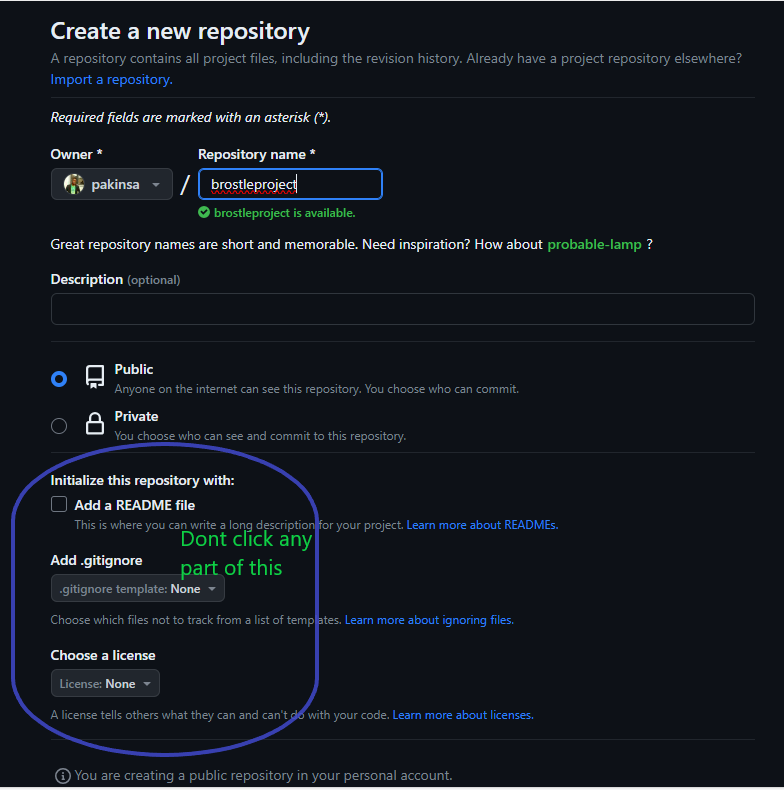
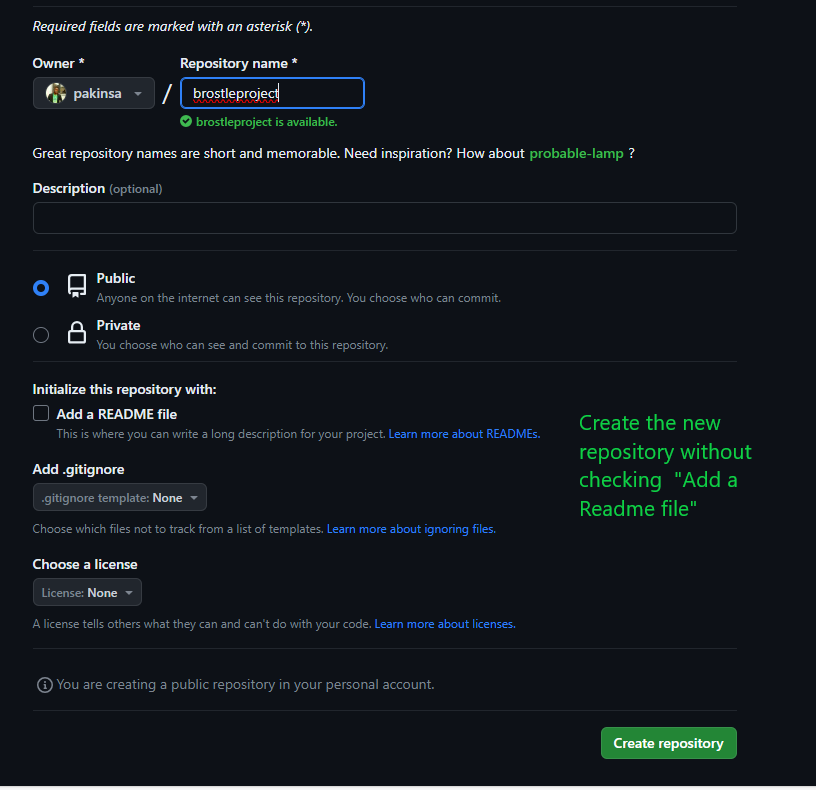
major updates 2

diff --git a/02.Git Project/Readme.md b/02.Git Project/Readme.md
@@ -1,9 +1,8 @@
 # My DevOps_Project 
 ## Project 2: GIT Pratice Project
 ### Darey.io DevOps Bootcamp
+![alt text](img/01.git.png)
 
-
-![alt text](img/01.git.png "Git")
 
 Git Commands helps to collaborate on projects amongst technical teams 
 
@@ -47,6 +46,12 @@ Required Steps:
 
       ![alt text](img/11.git_diff.png)
 
+
+      `git ls-files`  : displays all files in your repository
+
+      ![alt text](img/11a.git_ls.png)
+
+
 * 9. `git branch branch_name`  : create a new branch
      `git branch`              : confirm branches available in your repository
      `git switch branch_name`  : switch to a specified branch_name  
@@ -84,19 +89,45 @@ to main branch with -m flag and tag with comment in quotation marks. Conflict re
 
 
 
-* 19. Create a github account at [Git](https://github.com/) 
+* 16. Create a github account at [Git](https://github.com/) 
       ![alt text](img/19.github.png "Github")
 
-      Create the repository on Github without adding a readme file and gitignore file. 
+* 17. Create the repository on Github without adding a readme file and gitignore file. 
       This allows seamless git remote repo addition without errors of "remote repository has an existing file"
       ![alt text](img/20.remoterepo.png)  
 
 
-      Copy the https of your remote repo
+* 18. Copy the https of your remote repo
 
       `git remote add origin https://github.com/pakinsa/Brostleprojects.git`  // attempts to add your github repo to your local repo.
       `git branch -m main`          //takes the Head, i.e the main branch of your github repo
       `git push -u origin main`     // connects it to the main branch of your local repo with -u flag for upstream
 
       ![alt text](img/21.git_remote.png)  
+
+* 19. git push --all  // push all branches to remotely
+      ![alt text](img/22.pushbranchremote.png)  
+      ![alt text](img/23.remote_branches.png)
+
+
+
+* 20. You can contribute to a project on GitHub by identifying and opening issues
+      ![alt text](img/24.issues.png)  
+
+
+* 21. You can solve issues in a project with pull request seeking a reviewer to merge into main if successful.
+      ![alt text](img/25.pullrequest.png)  
+
+
+* 22. Once pull request is approved, a merging take place by the assigned reviewer.
+      ![alt text](img/26.mergeremotepullrequest.png)  
+
+
+* 23. Take a look at number of issues, pull requests, commits made in a repository at insights
+      ![alt text](img/27.insights.png)  
+
+
+* 24. Finally sync your local repo with your remote repo.
+      `git pull` : With git pull from Bash, you update all changes made on your remote repo with your local repo.
+      ![alt text](img/28.pull_remotely.png)  
  
